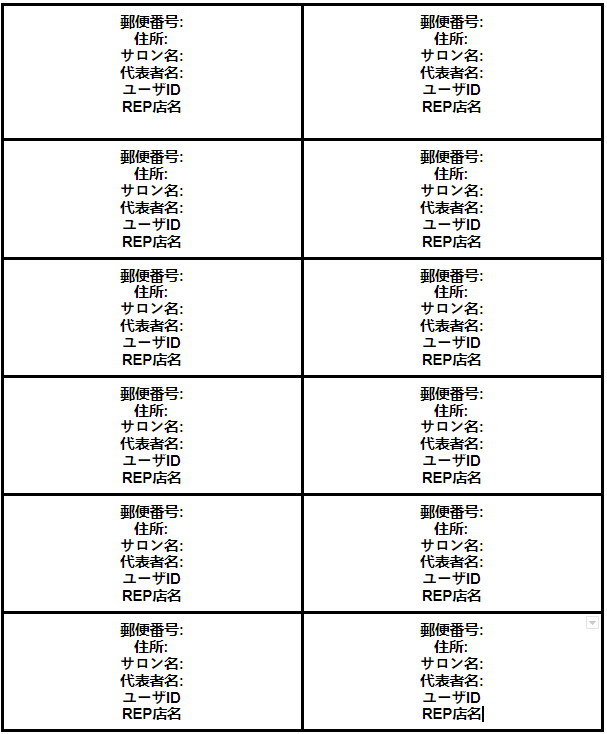
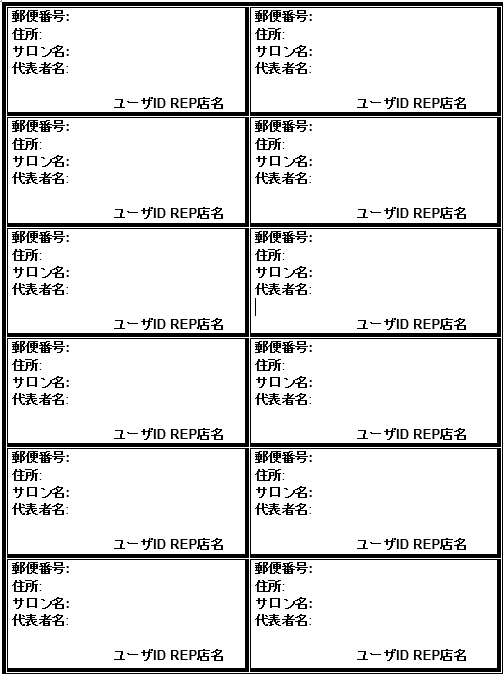
fix print image

Changed region(s): [[0.0, 0.0, 1.0, 1.0]]

diff --git a/src/pages/Customers/management/print.vue b/src/pages/Customers/management/print.vue
@@ -35,31 +35,17 @@
           v-for="item in items"
           :key="item.id"
         >
-          <div style="position: absolute; bottom: 20px; right: 20px">{{ item.user_id }} {{item.user ? item.user.company_name : ""}}</div>
+          <div style="position: absolute; bottom: 20px; right: 20px">
+            {{ item.user_id }} {{ item.user ? item.user.company_name : "" }}
+          </div>
           <div style="width: 100%" v-if="item.user_id">
             <div>
-              <div>{{item.postal_code}}</div>
+              <div>{{ item.postal_code }}</div>
               <div>{{ item.address }}</div>
               <div>{{ item.company_name }}</div>
             </div>
-
-<!--            <div>-->
-<!--              郵便番号: <span>{{ item.postal_code }}</span>-->
-<!--            </div>-->
-<!--            <div>-->
-<!--              住所: <span>{{ item.address }}</span>-->
-<!--            </div>-->
-<!--            <div>-->
-<!--              サロン名: <span>{{ item.company_name }}</span>-->
-<!--            </div>-->
-<!--            <div>-->
-<!--              代表者名: <span>{{ item.representative_name }}</span>-->
-<!--            </div>-->
-<!--            <div>-->
-<!--              ユーザID: <span>{{ item.user_id }}</span>-->
-<!--            </div>-->
           </div>
-          <div v-else>NO DATA</div>
+          <div v-else></div>
         </td>
       </tr>
     </table>
@@ -68,19 +54,42 @@
 
 <script>
 export default {
-  props: ["data", "row"],
+  // props: ["data", "row"],
+  props: {
+    data: {
+      type: Array,
+      default() {
+        return [];
+      },
+    },
+    row: {
+      type: Number,
+      default: 4,
+    },
+  },
   data: () => ({
     tableData: [],
   }),
+  watch: {
+    data(val) {
+      this.tableData = []
+      const data = [...val];
+      if (data.length % 2 == 1) {
+        data.push({});
+      }
+      for (let i = 0; i < data.length; i = i + 2) {
+        this.tableData.push([data[i], data[i + 1]]);
+      }
+    },
+  },
   mounted() {
-    const data = [...this.data];
-    console.log(data)
-    if (data.length % 2 == 1) {
-      data.push({});
-    }
-    for (let i = 0; i < data.length; i = i + 2) {
-      this.tableData.push([data[i], data[i + 1]]);
-    }
+    // const data = [...this.data];
+    //   if (data.length % 2 == 1) {
+    //     data.push({});
+    //   }
+    //   for (let i = 0; i < data.length; i = i + 2) {
+    //     this.tableData.push([data[i], data[i + 1]]);
+    // }
   },
 };
 </script>

diff --git a/src/pages/Customers/management/index.vue b/src/pages/Customers/management/index.vue
@@ -246,7 +246,7 @@
     </v-dialog>
     <div v-show="false">
       <div id="printbody">
-        <PrintView :data="dataPrint" :row="printRow" v-if="viewPrint" />
+        <PrintView :data="dataPrint" :row="printRow" />
       </div>
     </div>
     <popupdetail ref="detail"/>
@@ -348,15 +348,12 @@ export default {
   },
   methods: {
     async printPDF(row) {
-      this.loadingPrint = true;
       this.printForm = true;
-      this.viewPrint = false;
-      let data = await getCustomers({
-        perPage: 99999,
-      });
+      // this.viewPrint = false;
       this.viewPrint = true;
       this.loadingPrint = false;
-      this.dataPrint = data.data;
+
+      this.dataPrint = this.selectedRow;
       this.printRow = row;
     },
     async signCustomer(status) {

diff --git a/src/pages/Customers/management/popupdetail.vue b/src/pages/Customers/management/popupdetail.vue
@@ -393,7 +393,6 @@ export default {
     async fetchComments() {
       let data = await getComments({user_id: this.form.user_id});
       this.comments = data;
-      console.log(this.comments)
     },
     async getCustomer() {
       this.editing = false;
